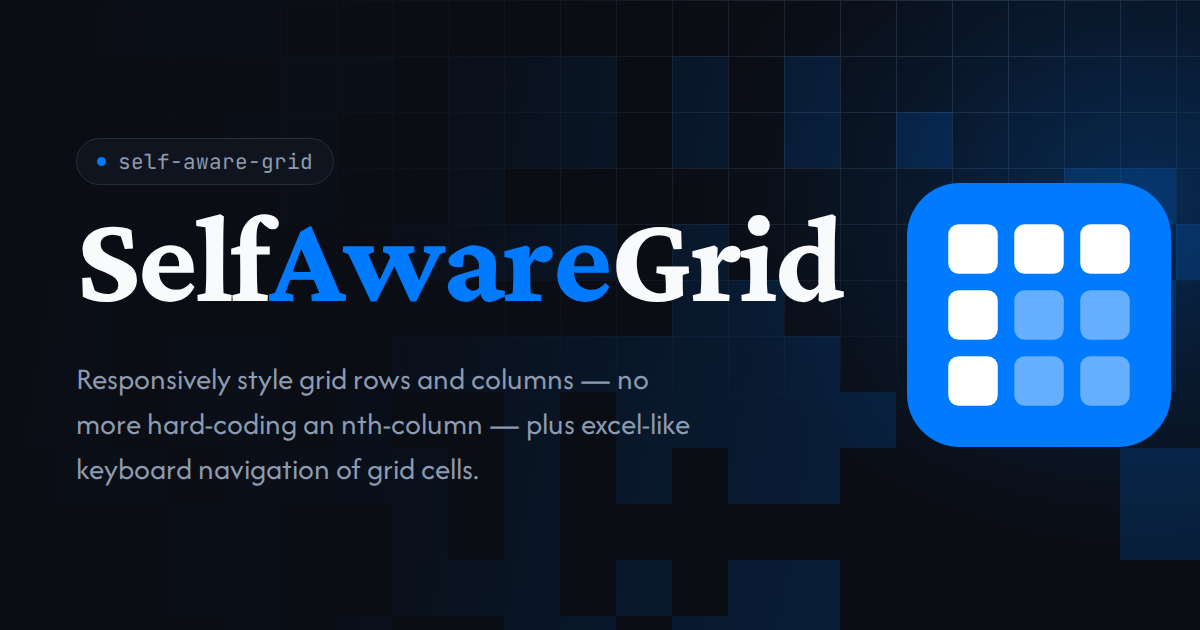
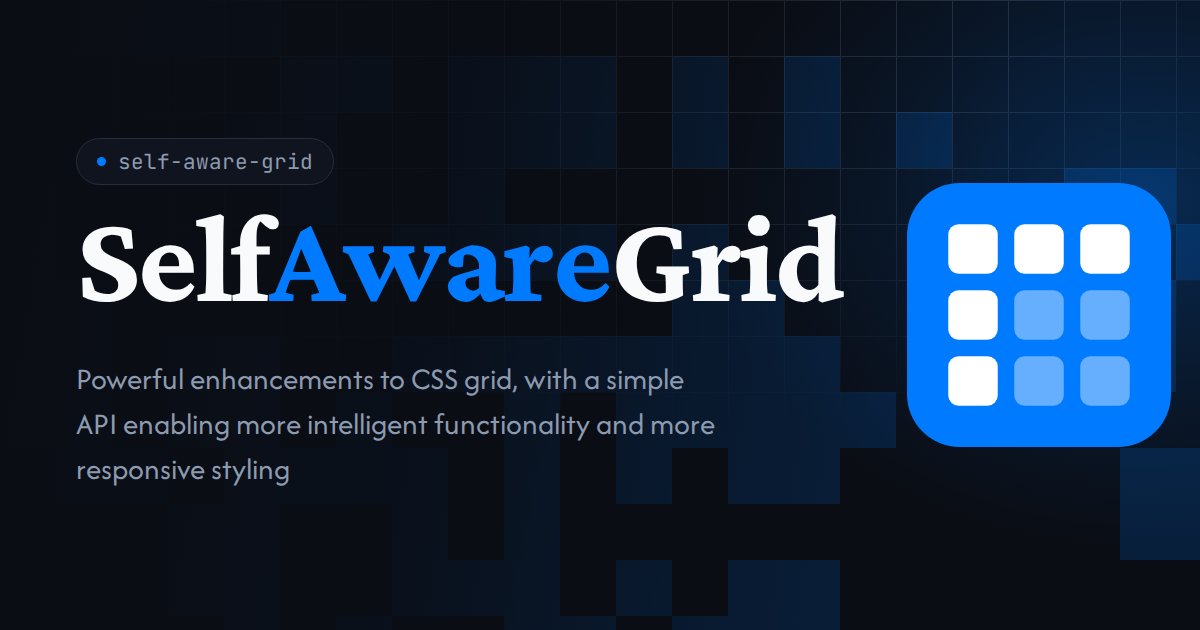
Reword the share card subtitle
"Powerful enhancements to CSS grid, with a simple API enabling more
intelligent functionality and more responsive styling", replacing the
line condensed from the README bullets.

Applied to the card and to the four places in index.html that carry the
same sentence — the meta description, og:description, twitter:description
and og:image:alt — so the card and the page keep saying the same thing.

Claude-Session: https://claude.ai/code/session_01VPtjxVaKFZMZ2yKXYVrPDq

Changed region(s): [[0.0617, 0.573, 0.6167, 0.6937], [0.0617, 0.7238, 0.4008, 0.7841]]

diff --git a/index.html b/index.html
@@ -9,7 +9,7 @@
     <title>SelfAwareGrid &mdash; positional awareness for CSS grid</title>
     <meta
       name="description"
-      content="Responsively style grid rows and columns — no more hard-coding an nth-column — plus excel-like keyboard navigation of grid cells."
+      content="Powerful enhancements to CSS grid, with a simple API enabling more intelligent functionality and more responsive styling"
     />
 
     <link rel="icon" type="image/svg+xml" href="/favicon.svg" />
@@ -46,19 +46,19 @@
     <meta property="og:url" content="https://jaidendechon.github.io/SelfAwareGrid-Demo/" />
     <meta property="og:site_name" content="SelfAwareGrid" />
     <meta property="og:title" content="SelfAwareGrid" />
-    <meta property="og:description" content="Responsively style grid rows and columns — no more hard-coding an nth-column — plus excel-like keyboard navigation of grid cells." />
+    <meta property="og:description" content="Powerful enhancements to CSS grid, with a simple API enabling more intelligent functionality and more responsive styling" />
     <meta property="og:image" content="https://jaidendechon.github.io/SelfAwareGrid-Demo/social-preview.png" />
     <meta property="og:image:type" content="image/png" />
     <meta property="og:image:width" content="1200" />
     <meta property="og:image:height" content="630" />
     <meta
       property="og:image:alt"
-      content="SelfAwareGrid, over a grid of Conway's Game of Life cells: Responsively style grid rows and columns — no more hard-coding an nth-column — plus excel-like keyboard navigation of grid cells."
+      content="SelfAwareGrid, over a grid of Conway's Game of Life cells: Powerful enhancements to CSS grid, with a simple API enabling more intelligent functionality and more responsive styling"
     />
 
     <meta name="twitter:card" content="summary_large_image" />
     <meta name="twitter:title" content="SelfAwareGrid" />
-    <meta name="twitter:description" content="Responsively style grid rows and columns — no more hard-coding an nth-column — plus excel-like keyboard navigation of grid cells." />
+    <meta name="twitter:description" content="Powerful enhancements to CSS grid, with a simple API enabling more intelligent functionality and more responsive styling" />
     <meta name="twitter:image" content="https://jaidendechon.github.io/SelfAwareGrid-Demo/social-preview.png" />
   </head>
   <body>

diff --git a/tools/social-preview.html b/tools/social-preview.html
@@ -157,8 +157,8 @@
           <h1>Self<span class="aware">Aware</span>Grid</h1>
 
           <p>
-            Responsively style grid rows and columns &mdash; no more hard-coding an nth-column &mdash; plus
-            excel-like keyboard navigation of grid cells.
+            Powerful enhancements to CSS grid, with a simple API enabling more intelligent functionality and
+            more responsive styling
           </p>
         </div>
 
